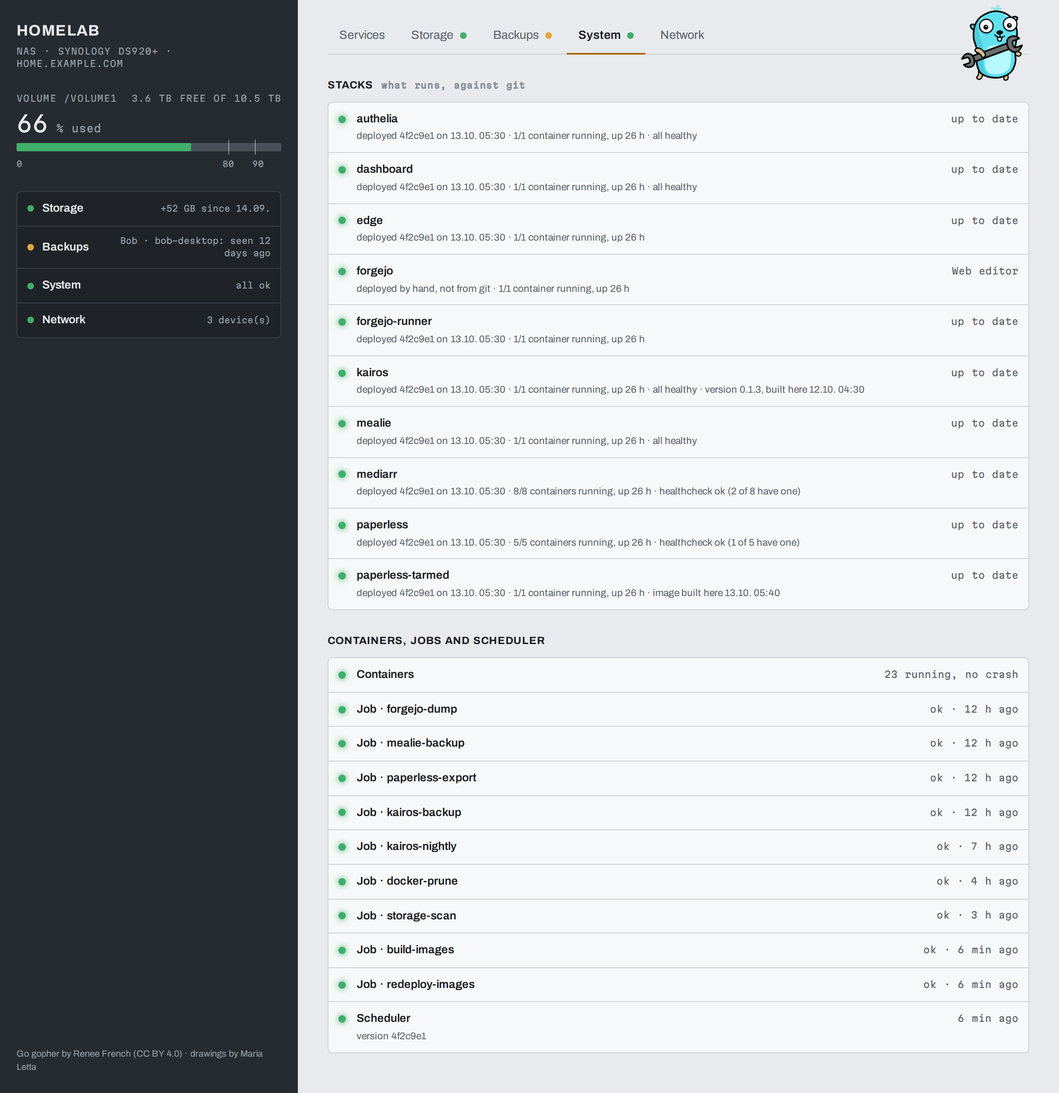
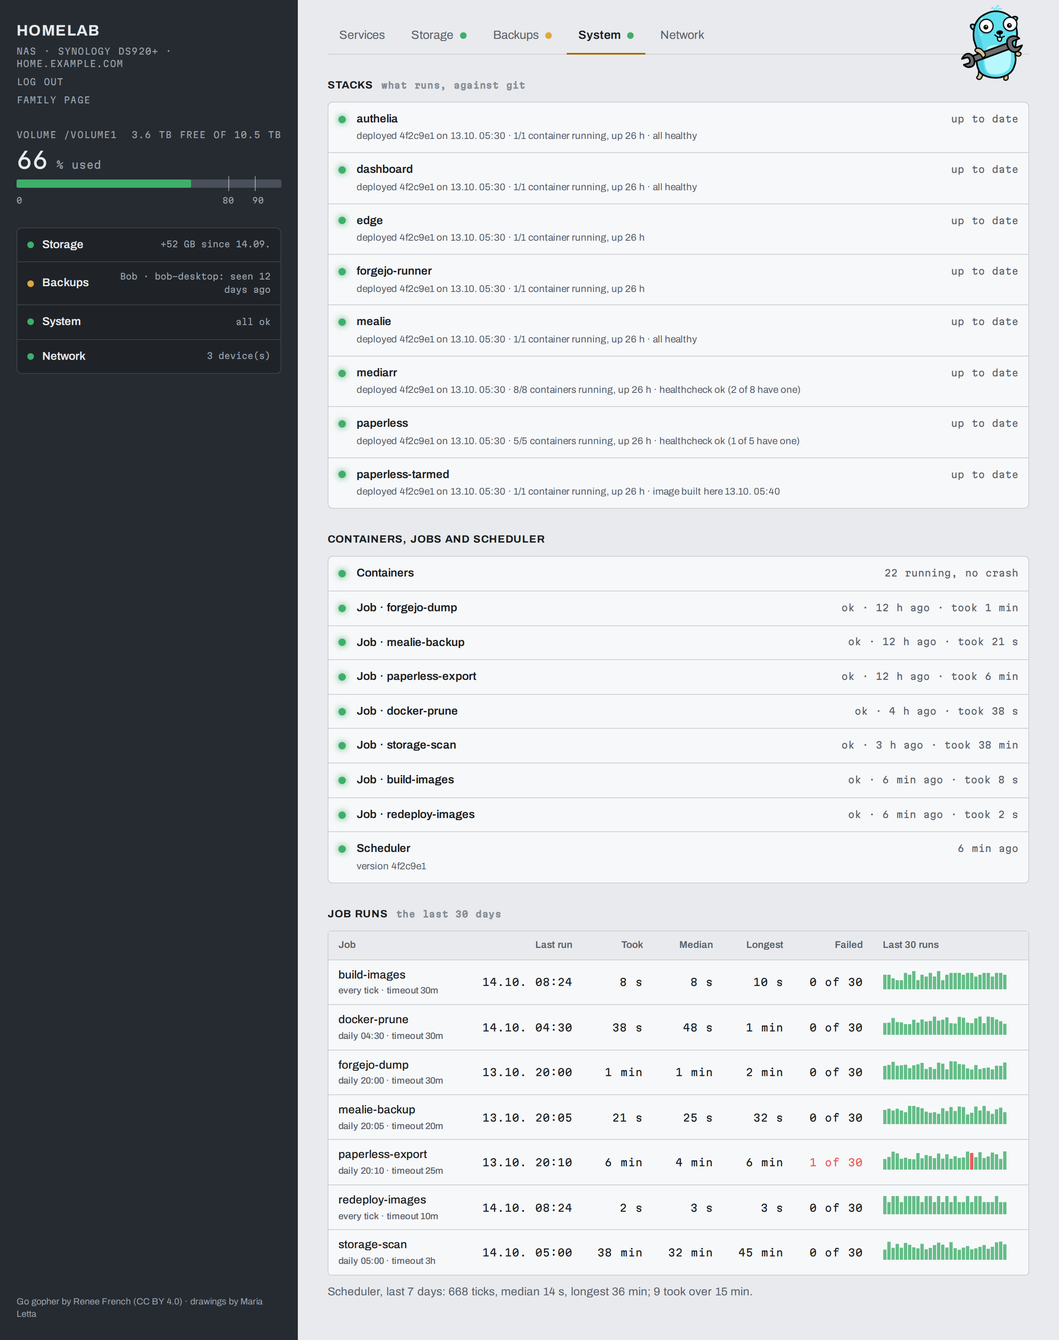
6 changes
- ntfy guide: WG Tunnel recommended on Android, off on the home Wi-Fi
- ntfy: Android can't drop instant delivery for a self-hosted server; a split tunnel, always on
- alerts: no ceil, and _jq skips a local jq older than 1.7
- ntfy: instant delivery off on Android, the VPN optional
- Job runs on the dashboard: durations, failures and ticks over 30 days
- run-jobs --detach: DSM no longer skips ticks (and notifies) while a long job runs

Published-from: 7c1beffddf940a31304909041b39fc3355631082

diff --git a/stacks/dashboard/html/index.html b/stacks/dashboard/html/index.html
@@ -732,6 +732,12 @@
     .ft .num { text-align: right; font-family: var(--mono); font-size: 0.76rem; font-variant-numeric: tabular-nums; }
     .ft .name { font-weight: 500; }
     .ft .barcell { width: 30%; }
+    .ft td small { display: block; font-size: 0.7rem; color: var(--muted); }
+    .ft thead th.num { font-family: inherit; font-size: 0.74rem; }
+    [data-job-runs] + [data-ticks] { margin-top: 10px; }
+    .ft .num.bad { color: var(--bad); }
+    .runbars rect { fill: var(--ok); opacity: 0.8; }
+    .runbars rect.bad { fill: var(--bad); opacity: 1; }
     .ft .bar { display: block; height: 8px; border-radius: 2px; background: var(--accent); opacity: 0.75; }
     .spark { display: block; }
     .spark-area { fill: var(--accent); fill-opacity: 0.12; }
@@ -841,6 +847,11 @@
             <section>
                 <h3 class="view-title">Containers, jobs and scheduler</h3>
                 <div class="leds" data-leds-system></div>
+            </section>
+            <section>
+                <h3 class="view-title">Job runs <span>the last 30 days</span></h3>
+                <div class="tbl-wrap" data-job-runs></div>
+                <p class="empty-bay" data-ticks></p>
             </section>
         </div>
 
@@ -1166,10 +1177,19 @@
         if (!d.latest) { return { level: 'bad', value: 'none', detail: 'No dump yet: the live data is excluded on purpose' }; }
         return { level: now - d.latest > 2 * DAY ? 'bad' : 'ok', value: ago(d.latest, now), at: d.latest, detail: d.file };
     }
+    // A duration in seconds, short: '40 s', '12 min', '2 h 05'.
+    function dur(s) {
+        if (s == null) { return '–'; }
+        if (s < 60) { return s + ' s'; }
+        if (s < HOUR) { return Math.round(s / 60) + ' min'; }
+        var m = Math.round(s / 60) % 60;
+        return Math.floor(s / HOUR) + ' h ' + (m < 10 ? '0' : '') + m;
+    }
     function job(j, now) {
         var failed = j.exit !== 0;
         return { level: failed ? 'bad' : now - j.ended > 26 * HOUR ? 'warn' : 'ok',
-                 value: (failed ? 'exit ' + j.exit : 'ok') + ' · ' + ago(j.ended, now),
+                 value: (failed ? 'exit ' + j.exit : 'ok') + ' · ' + ago(j.ended, now) +
+                     (j.duration != null ? ' · took ' + dur(j.duration) : ''),
                  at: j.ended, detail: failed ? j.message : '' };
     }
 
@@ -1553,7 +1573,61 @@
         // The summary names the worst problem; among equals, the first found.
         var top = notes.filter(function (n) { return n[0] === 'bad'; })[0] || notes[0];
         area('system', worst(sLevels), top ? top[1] : 'all ok');
+        jobRuns(st, sch);
     });
+
+    // Job runs: per job its schedule, last run, and 30 days of durations
+    // (run-jobs.sh keeps them, dashboard-status.sh sums them up).
+    function runBars(last) {
+        var w = 150, h = 24, n = 30, bw = w / n;
+        var hi = Math.max.apply(null, last.map(function (r) { return r[1]; }).concat([1]));
+        var s = svg('svg', { 'class': 'runbars', viewBox: '0 0 ' + w + ' ' + h, width: w, height: h, role: 'img',
+                             'aria-label': 'durations of the last ' + last.length + ' runs' });
+        last.forEach(function (r, i) {
+            var bh = Math.max(1.5, r[1] / hi * (h - 2));
+            var b = svg('rect', { x: ((n - last.length + i) * bw + 0.5).toFixed(1), y: (h - bh).toFixed(1),
+                                  width: (bw - 1).toFixed(1), height: bh.toFixed(1), 'class': r[2] ? 'bad' : '' });
+            b.appendChild(svg('title', {}, when(r[0]) + ' · ' + dur(r[1]) + (r[2] ? ' · exit ' + r[2] : '')));
+            s.appendChild(b);
+        });
+        return s;
+    }
+    function jobRuns(st, sch) {
+        var box = document.querySelector('[data-job-runs]'), ticks = document.querySelector('[data-ticks]');
+        box.textContent = '';
+        var jobs = (st.jobs || []).filter(function (j) { return j.runs; });
+        if (!jobs.length) {
+            ticks.textContent = 'No run history yet: the scheduler records it from its next tick.';
+        } else {
+            var t = el('table', 'ft'), head = el('tr');
+            ['Job', 'Last run', 'Took', 'Median', 'Longest', 'Failed', 'Last 30 runs'].forEach(function (h, i) {
+                head.appendChild(el('th', i && i < 6 ? 'num' : null, h));
+            });
+            t.appendChild(el('thead')).appendChild(head);
+            var body = t.appendChild(el('tbody'));
+            jobs.sort(function (a, b) { return a.name < b.name ? -1 : 1; }).forEach(function (j) {
+                var r = j.runs, tr = el('tr'), name = el('td', 'name', j.name);
+                name.appendChild(el('small', null, (j.at === 'tick' ? 'every tick' : 'daily ' + (j.at || '?')) +
+                    (j.timeout ? ' · timeout ' + j.timeout : '')));
+                tr.appendChild(name);
+                tr.appendChild(el('td', 'num', j.started ? when(j.started) : '–'));
+                tr.appendChild(el('td', 'num', dur(j.duration)));
+                tr.appendChild(el('td', 'num', dur(r.median)));
+                tr.appendChild(el('td', 'num', dur(r.max)));
+                tr.appendChild(el('td', 'num' + (r.failed ? ' bad' : ''), r.failed + ' of ' + r.n));
+                tr.appendChild(el('td')).appendChild(runBars(r.last || []));
+                body.appendChild(tr);
+            });
+            box.appendChild(t);
+            ticks.textContent = '';
+        }
+        var k = sch && sch.ticks;
+        if (k && k.n) {
+            ticks.textContent = 'Scheduler, last 7 days: ' + k.n + ' ticks, median ' + dur(k.median) +
+                ', longest ' + dur(k.max) + '; ' + k.long + ' took over 15 min' +
+                (k.busy ? ', ' + k.busy + ' found the previous one still running (skipped, not lost)' : '') + '.';
+        }
+    }
 
     // ----------------------------------------------------------- storage
     // local/storage.json, written every night by scripts/storage-scan.sh.

diff --git a/dev/dashboard-demo/screenshots.py b/dev/dashboard-demo/screenshots.py
@@ -27,6 +27,7 @@ T = int(NOW.timestamp())
 H, D = 3600, 86400
 KIB, GIB, TIB = 1024, 1024**3, 1024**4
 rnd = random.Random(7)
+rjob = random.Random(11)  # its own, so the other tabs keep their numbers
 
 
 def at(days=0, hours=0, minutes=0):
@@ -37,6 +38,24 @@ def evening(days_ago, hh, mm):
     """Epoch of hh:mm local, `days_ago` days before NOW's date."""
     d = NOW.replace(hour=hh, minute=mm, second=0) - timedelta(days=days_ago)
     return int(d.timestamp())
+
+
+def job(name, at_, timeout, hh, mm, typical, day=1):
+    """A job's state and its run history, as run-jobs.sh and dashboard-status.sh write them."""
+    step = 15 * 60 if at_ == "tick" else D
+    first = at(minutes=6) if at_ == "tick" else evening(day, hh, mm)
+    last = []
+    for i in range(29, -1, -1):
+        took = max(1, int(typical * rjob.uniform(0.7, 1.3)))
+        last.append([first - i * step, took, 0])
+    if name == "paperless-export":
+        last[-9][2] = 1  # one failure in the month
+    durs = sorted(r[1] for r in last)
+    started, took = last[-1][0], last[-1][1]
+    return {"name": name, "at": at_, "timeout": timeout, "started": started, "ended": started + took,
+            "duration": took, "exit": 0, "last_ok_day": "", "message": "",
+            "runs": {"n": len(last), "failed": sum(1 for r in last if r[2]), "median": durs[len(durs) // 2],
+                     "max": durs[-1], "last": last}}
 
 
 def status():
@@ -59,13 +78,13 @@ def status():
             {"name": "Mealie dump", "dir": "/volume1/mealie/dumps", "file": "mealie-backup-20261013-200512.zip", "latest": evening(1, 20, 5)},
         ],
         "jobs": [
-            {"name": "forgejo-dump", "exit": 0, "ended": evening(1, 20, 1), "message": ""},
-            {"name": "mealie-backup", "exit": 0, "ended": evening(1, 20, 5), "message": ""},
-            {"name": "paperless-export", "exit": 0, "ended": evening(1, 20, 14), "message": ""},
-            {"name": "docker-prune", "exit": 0, "ended": evening(0, 4, 31), "message": ""},
-            {"name": "storage-scan", "exit": 0, "ended": evening(0, 5, 22), "message": ""},
-            {"name": "build-images", "exit": 0, "ended": at(minutes=6), "message": ""},
-            {"name": "redeploy-images", "exit": 0, "ended": at(minutes=6), "message": ""},
+            job("forgejo-dump", "20:00", "30m", 20, 0, 70),
+            job("mealie-backup", "20:05", "20m", 20, 5, 25),
+            job("paperless-export", "20:10", "25m", 20, 10, 260),
+            job("docker-prune", "04:30", "30m", 4, 30, 50, day=0),
+            job("storage-scan", "05:00", "3h", 5, 0, 2100, day=0),
+            job("build-images", "tick", "30m", None, None, 8),
+            job("redeploy-images", "tick", "10m", None, None, 3),
         ],
         "devices": {
             "configured": True,
@@ -126,7 +145,8 @@ def status():
                             ("paperless-gotenberg-1", "paperless", None), ("paperless-tarmed", "paperless-tarmed", None),
                             ("ntfy-ntfy-1", "ntfy", "healthy"), ("dockhand", "dockhand", None)]
         ],
-        "scheduler": {"sha": commit, "pull_ok": True, "pull_error": ""},
+        "scheduler": {"sha": commit, "pull_ok": True, "pull_error": "",
+                      "ticks": {"n": 668, "busy": 0, "long": 9, "median": 14, "max": 2160}},
     }
 
 

diff --git a/docs/guides/11-notifications.md b/docs/guides/11-notifications.md
@@ -19,7 +19,7 @@ phone notification. This setup uses four topics, so you can mute one:
 | `nas`       | DSM                                                                       | "Hyper Backup task Off-site failed"                                                 |
 
 - **LAN-only, like everything else:** the phone reaches ntfy on the home Wi-Fi,
-  and away from home through a VPN that connects on demand (step 5). Without
+  and away from home through a VPN that only carries the LAN (step 5). Without
   it, messages wait on the server (3 days) and arrive once the phone is back.
 - **iPhone:** Apple only allows push through its own service, so the server
   sends a content-free "poll now" ping via ntfy.sh, and the app then fetches
@@ -101,15 +101,34 @@ curl -s -o /dev/null -w '%{http_code}\n' -H 'Authorization: Bearer tk_…' -d te
 2. Subscribe to `homelab`, `media`, `nas` and `paperless` (+ → topic name). Subscriptions
    live in each app, not on the server: the web app and every phone need their
    own, and a fresh login shows none.
-3. Android: keep **instant delivery** on (the app keeps a connection open; that
-   is how it receives), and Settings → **Connection protocol** →
-   **WebSockets** works through Caddy as is.
-4. The VPN, so it works away from home:
+3. Android: the app keeps a connection open to your server (instant delivery;
+   it can't be turned off for a self-hosted server: the "off" mode relies on
+   Google's push, which the app only uses for ntfy.sh). Settings →
+   **Connection protocol** → **WebSockets** works through Caddy as is.
+4. The VPN, so it works away from home: up whenever the phone is away, down on
+   the home Wi-Fi (there it would detour LAN traffic through the router, or not
+   connect at all if the ISP router can't loop back to its own public address).
+   An idle tunnel costs little, while an app that can't reach its server
+   retries all day and drains the battery.
+   - **The tunnel:** `AllowedIPs = <LAN subnet>, <router's VPN address>/32`
+     (your LAN and the DNS server the tunnel names; without the second, name
+     lookups go out over mobile data and `ntfy.<domain>` doesn't resolve), or
+     `DNS =` the router's LAN address. Android's **Private DNS** on Automatic
+     or Off, or it bypasses the tunnel's DNS.
    - **iPhone, WireGuard app:** the tunnel → **On-Demand activation** → on
      cellular, and on Wi-Fi except your home network's name.
-   - **Android:** the official WireGuard app has no on-demand rule; use
-     Settings → Network → VPN → the tunnel → **Always-on VPN**, or a client
-     with automatic tunnelling on untrusted networks (e.g. WG Tunnel).
+   - **Android: [WG Tunnel](https://github.com/zaneschepke/wgtunnel)** (Play Store
+     or F-Droid), a WireGuard client that switches by network. Import the
+     tunnel (from a file or QR code), then **Auto-tunnel** on, your home
+     Wi-Fi's name under **trusted networks**, tunnelling on mobile data and
+     on untrusted Wi-Fi. It asks for the location permission, which Android
+     requires to read the Wi-Fi's name. Leave Android's own **Always-on VPN**
+     off, or the two fight over the tunnel. A second tunnel with the same keys
+     and `AllowedIPs = 0.0.0.0/0, ::/0` sends everything home, for public
+     Wi-Fi; switch to it there by hand.
+   - **Android, official WireGuard app:** it has no network rule; **Always-on
+     VPN** (Settings → Network → VPN) keeps it up at home too, with the
+     problems above.
 
 **Check:** send a test, from the web app (a topic → the message field at the
 bottom), the phone app (a topic → ⋮ → **Send test notification**) or the NAS:
@@ -118,7 +137,8 @@ bottom), the phone app (a topic → ⋮ → **Send test notification**) or the N
 curl -H 'Authorization: Bearer tk_…' -H 'Title: Test' -d 'ntfy works' http://127.0.0.1:2586/homelab
 ```
 
-It arrives on the phone; then once more on mobile data, Wi-Fi off.
+It arrives on the phone; then once more on mobile data, Wi-Fi off, through the
+VPN.
 
 ### 6. Updates waiting for approval
 
@@ -323,8 +343,8 @@ needs ntfy.sh).
 | An \*arr or Seerr test: connection refused or timeout | Use `http://ntfy:8080`, not `https://ntfy.<domain>`: containers can't reach Caddy's macvlan IP. The app must be on `proxy`.                                                                                                                                                                                                                                                                                                     |
 | DSM's test: nothing arrives                           | Send the same request with `curl` (the URL with the `auth` parameter, the JSON body): `200` and it arrives means ntfy is fine and DSM sends something else; `403` means the `auth` value or the topic's access. To see DSM's request, point the webhook at a request logger for a moment: `docker run --rm -d --name echo -p 127.0.0.1:2587:8080 mendhak/http-https-echo:31`, port `2587` in the URL, test, `docker logs echo`. |
 | DSM's test fails                                      | URL `http://127.0.0.1:2586/…` (not the hostname, for the same reason); `auth` parameter built from `Bearer <token>`, without trailing `=`.                                                                                                                                                                                                                                                                                      |
-| Nothing on the phone away from home                   | The VPN didn't connect: check the on-demand rule. Messages are kept 3 days and arrive once the phone reaches the server.                                                                                                                                                                                                                                                                                                        |
-| iPhone: nothing, or "new message" without text        | The ping came, but the app couldn't fetch the message: same VPN cause.                                                                                                                                                                                                                                                                                                                                                          |
+| Nothing on the phone away from home                   | The VPN is off or can't resolve the name: open `https://ntfy.<domain>` in the phone's browser; failing, check the tunnel's DNS (step 5). Messages are kept 3 days.                                                                                                                                                                                                                                                              |
+| iPhone: nothing, or "new message" without text        | The ping came, but the app couldn't fetch the message: the phone is away from home, without the VPN.                                                                                                                                                                                                                                                                                                                            |
 | `renovate-notify`: "No open Dependency Dashboard"     | Renovate hasn't run yet, or its dashboard issue is closed.                                                                                                                                                                                                                                                                                                                                                                      |
 | An update was not notified                            | It was already in the previous run's list (`$OPS_HOME/state/renovate-notified.txt`); delete the file to be told about everything waiting again.                                                                                                                                                                                                                                                                                 |
 

diff --git a/stacks/dashboard/README.md b/stacks/dashboard/README.md
@@ -126,6 +126,15 @@ Which devices: `$OPS_HOME/uploaders.conf` (`UPLOADERS_CONF` overrides), from `sc
 | Used space, changes, 7/30-day deltas, weekly trend | the history file. Growth: used now minus 30 days ago. The "full in" rate is that change per day, and is hidden when used space did not grow                                                                                                                                                                                                                                                                                                                                                                                                                                                                                                                                                                                                                                                                                                                                                                                                                                                                                                     |
 | Media library                                      | every video under `STORAGE_MEDIA_DIR`: `tv/<series>`, `movies/<film>`. Length comes from ffprobe in the Jellyfin container, once per file. Drawn as one treemap of every series and film; hovering a series splits it by season folder                                                                                                                                                                                                                                                                                                                                                                                                                                                                                                                                                                                                                                                                                                                                                                                                          |
 
+## Job runs
+
+Below the jobs, a table: each job's schedule and timeout, its last run and how
+long it took, the median and longest duration and the failures over 30 days,
+and a bar per run for the last 30 (red: failed; hover for the date). Under it,
+the scheduler's last 7 days: ticks, how many took over 15 minutes, and how many
+found the previous one still running (that tick is skipped, its jobs run on the
+next). From `run-jobs.sh`'s history files, summed up by `dashboard-status.sh`.
+
 ## Stacks
 
 The System tab lists every git stack Dockhand deploys, with a detail line: the commit and

diff --git a/docs/guides/09-dashboard.md b/docs/guides/09-dashboard.md
@@ -29,13 +29,13 @@ from git.
 The tabs, with made-up data (`dev/dashboard-demo/screenshots.sh` regenerates
 them):
 
-| Tab      | Shows                                                                                                                                         |
-| -------- | --------------------------------------------------------------------------------------------------------------------------------------------- |
-| Services | a card per app, with its stack's README; the left panel sums up every tab                                                                     |
-| Storage  | where the space goes (treemap by share and folder), 90 days of used space, per-folder trends, the media library (treemap by title and season) |
-| Backups  | which folder each snapshot and Hyper Backup task protects, last runs, devices that should keep uploading                                      |
-| System   | each Dockhand stack against git, with its deploy date, containers and built image; jobs; the scheduler                                        |
-| Network  | the LAN diagram and device cards, from `devices.json`                                                                                         |
+| Tab      | Shows                                                                                                                                                 |
+| -------- | ----------------------------------------------------------------------------------------------------------------------------------------------------- |
+| Services | a card per app, with its stack's README; the left panel sums up every tab                                                                             |
+| Storage  | where the space goes (treemap by share and folder), 90 days of used space, per-folder trends, the media library (treemap by title and season)         |
+| Backups  | which folder each snapshot and Hyper Backup task protects, last runs, devices that should keep uploading                                              |
+| System   | each Dockhand stack against git, with its deploy date, containers and built image; jobs; the scheduler; job runs: durations and failures over 30 days |
+| Network  | the LAN diagram and device cards, from `devices.json`                                                                                                 |
 
 ![Services tab](../images/dashboard-services.png)
 

diff --git a/docs/guides/10-backups-and-jobs.md b/docs/guides/10-backups-and-jobs.md
@@ -84,7 +84,8 @@ Each tick: `git pull --ff-only` its own clone (if Forgejo is down, the last
 checkout keeps running) → run due jobs (due = past its time and not yet
 successful today; a missed run catches up, a failure retries after an hour;
 each with a timeout, a log in `$OPS_HOME/logs/<job>/`, state in
-`$OPS_HOME/state/<job>.json`) → refresh the dashboard's `status.json` → push
+`$OPS_HOME/state/<job>.json`, its last 200 runs with their durations in
+`<job>.runs`, each tick's in `_ticks`) → refresh the dashboard's `status.json` → push
 what turned amber or red to ntfy ([11](11-notifications.md#10-nas-alerts)) → ping
 healthchecks.io (per job: start and exit code with the log's tail; plus a
 heartbeat that also fails when the clone is a day stale).
@@ -131,7 +132,10 @@ Every push to `main` therefore runs as root on the NAS within 15 minutes.
 5. DSM → Task Scheduler → Create → Scheduled Task → User-defined script: user
    **root**; Schedule _Daily_, first run 00:00, **Frequency every 15 minutes**,
    last run 23:45; email only on abnormal termination. Command:
-   `bash <clone>/scripts/run-jobs.sh <path>/jobs.env`
+   `bash <clone>/scripts/run-jobs.sh --detach <path>/jobs.env`
+   (`--detach` returns at once and runs the tick in the background: without
+   it, DSM skips the next tick while a long job runs, with a "scheduled task
+   was skipped" notification each time. Output: `$OPS_HOME/logs/run-jobs.log`.)
 6. healthchecks.io (optional): checks appear on first ping (`homelab-run-jobs`,
    `homelab-<job>`). Set periods — `run-jobs` 15 min / grace 75 min, daily
    jobs 1 day / grace 2 h — and where alerts go (Integrations). The 75 min

diff --git a/stacks/ntfy/README.md b/stacks/ntfy/README.md
@@ -26,7 +26,10 @@ This page is the reference.
   content-free ping relayed to Apple's push service; the app then fetches the
   message from here.
 - **Phones away from home** need the VPN: ntfy is LAN-only like everything
-  else. Messages wait 72 h (`NTFY_CACHE_DURATION`).
+  else. Messages wait 72 h (`NTFY_CACHE_DURATION`). On Android, a split tunnel
+  left always on: the app always keeps a connection to a self-hosted server,
+  and retries all day (draining the battery) when it can't reach it (guide 11,
+  step 5).
 - **DSM webhooks can't set headers**: the token goes in the `auth` URL
   parameter, raw base64 of `Bearer <token>` (no trailing `=`).
 - **Users and tokens are made with the CLI** (`ntfy user`, `ntfy access`,
